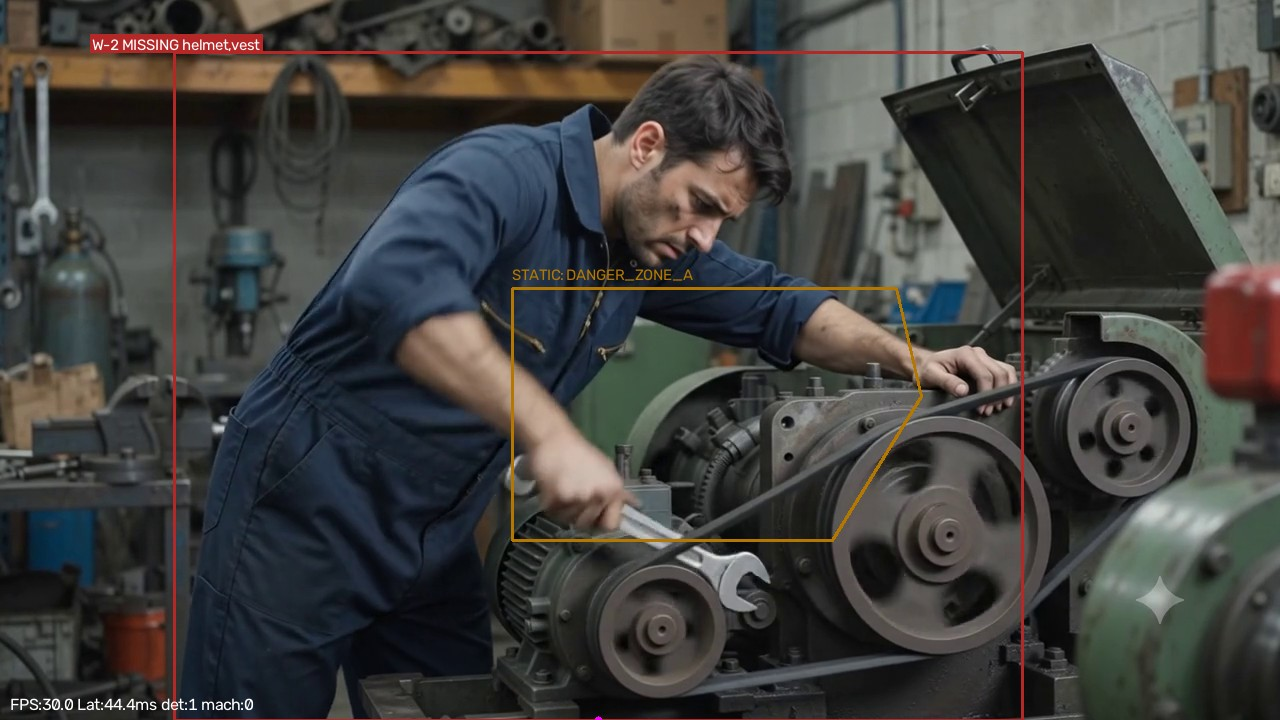
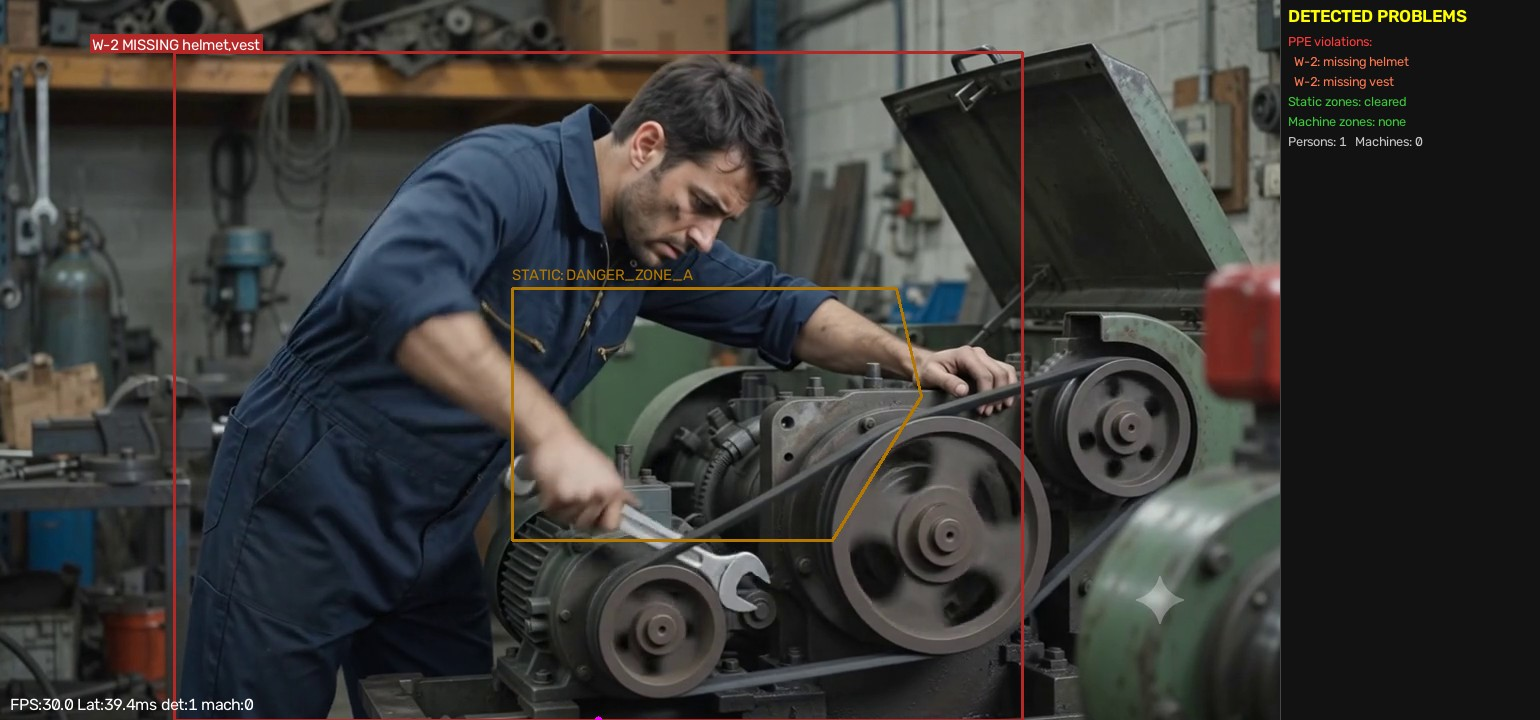
feat: add self-explaining 'DETECTED PROBLEMS' side panel to rendered images
- draw_side_panel() in the renderer lists PPE violations, active zones,
  machine danger zones and object tally beside the annotated frame
- dashboard overview and video gallery frames both include the panel
- regenerate showcase preview + gallery

diff --git a/src/isip/vision/renderer.py b/src/isip/vision/renderer.py
@@ -171,3 +171,64 @@ def draw_status_bar(frame: np.ndarray, fps: float, latency_ms: float,
     text = f"FPS:{fps:.1f} Lat:{latency_ms:.1f}ms det:{detections} mach:{machines}"
     cv2.putText(frame, text, (10, h - 10), cv2.FONT_HERSHEY_SIMPLEX,
                 0.55, (255, 255, 255), 1)
+
+
+def draw_side_panel(frame: np.ndarray, detections: List[Detection],
+                    violations: List[Tuple[str, str, float]],
+                    active_zones: Optional[Set[str]] = None,
+                    dynamic_zones: Optional[List] = None,
+                    panel_width: int = 260) -> np.ndarray:
+    """Returns a canvas with the frame and a text panel listing the detected
+    problems on the right side (PPE violations, zone breaches, machine zones).
+
+    This makes the still image self-explaining for the dashboard/showcase.
+    """
+    h, w = frame.shape[:2]
+    canvas = np.full((h, w + panel_width, 3), 18, dtype=np.uint8)
+    canvas[:, :w] = frame
+
+    y = 22
+    col = w + 8
+    cv2.line(canvas, (w, 0), (w, h), (70, 70, 70), 1)
+    cv2.putText(canvas, "DETECTED PROBLEMS", (col, y),
+                cv2.FONT_HERSHEY_SIMPLEX, 0.6, (0, 255, 255), 2)
+    y += 24
+
+    def write_line(text, color=(230, 230, 230)):
+        nonlocal y
+        cv2.putText(canvas, text, (col, y), cv2.FONT_HERSHEY_SIMPLEX,
+                    0.45, color, 1)
+        y += 20
+
+    # 1. PPE violations
+    if violations:
+        write_line("PPE violations:", (60, 60, 255))
+        for label, gear, conf in violations[:6]:
+            write_line(f"  {label}: missing {gear}", (80, 120, 255))
+    else:
+        write_line("PPE violations: none", (60, 200, 60))
+
+    # 2. Static zone state
+    if active_zones:
+        write_line("Zones ACTIVE:", (60, 60, 255))
+        for z in sorted(active_zones)[:6]:
+            write_line(f"  {z}", (80, 120, 255))
+    else:
+        write_line("Static zones: cleared", (60, 200, 60))
+
+    # 3. Dynamic machine danger zones
+    dyn = dynamic_zones or []
+    if dyn:
+        write_line("Machine danger zones:", (60, 60, 255))
+        for z in dyn[:6]:
+            name = getattr(z, "name", str(z))
+            write_line(f"  {name}", (80, 120, 255))
+    else:
+        write_line("Machine zones: none", (60, 200, 60))
+
+    # 4. Detected object tally
+    persons = sum(1 for d in detections if d.is_person)
+    machines = sum(1 for d in detections if d.is_machine)
+    write_line(f"Persons: {persons}   Machines: {machines}", (200, 200, 200))
+
+    return canvas

diff --git a/scripts/generate_detection_gallery.py b/scripts/generate_detection_gallery.py
@@ -26,6 +26,7 @@ from isip.vision.ppe import evaluate_ppe
 from isip.vision.renderer import (
     draw_detections,
     draw_dynamic_zones,
+    draw_side_panel,
     draw_static_zones,
     draw_status_bar,
 )
@@ -85,6 +86,8 @@ def generate_video_samples(settings: Settings, synthetic: bool) -> list[Path]:
         draw_dynamic_zones(frame, dynamic, viz=settings.visualization)
         draw_status_bar(frame, detector.latency_ms and 30.0, detector.latency_ms,
                         len(detections), len(machines))
+        frame = draw_side_panel(frame, detections, violations,
+                                active_zones=active, dynamic_zones=dynamic)
 
         out_path = OUT_DIR / f"detection_{len(out):02d}.jpg"
         cv2.imwrite(str(out_path), frame, [cv2.IMWRITE_JPEG_QUALITY, 90])

diff --git a/scripts/generate_dashboard_image.py b/scripts/generate_dashboard_image.py
@@ -13,6 +13,7 @@ from isip.vision.ppe import evaluate_ppe
 from isip.vision.renderer import (
     draw_detections,
     draw_dynamic_zones,
+    draw_side_panel,
     draw_static_zones,
     draw_status_bar,
 )
@@ -56,6 +57,11 @@ draw_detections(frame, detections, violations, worker_ids=workers_ids,
                 viz=settings.visualization)
 draw_status_bar(frame, max(detector.latency_ms and 1000.0 / max(detector.latency_ms, 1.0), 0),
                 detector.latency_ms, len(detections), len(machines))
+
+# Add the self-explaining problem panel beside the frame.
+frame = draw_side_panel(frame, detections, violations,
+                        active_zones=active,
+                        dynamic_zones=dynamic)
 
 # Save image
 output_path = "dashboard/detection_output.jpg"
